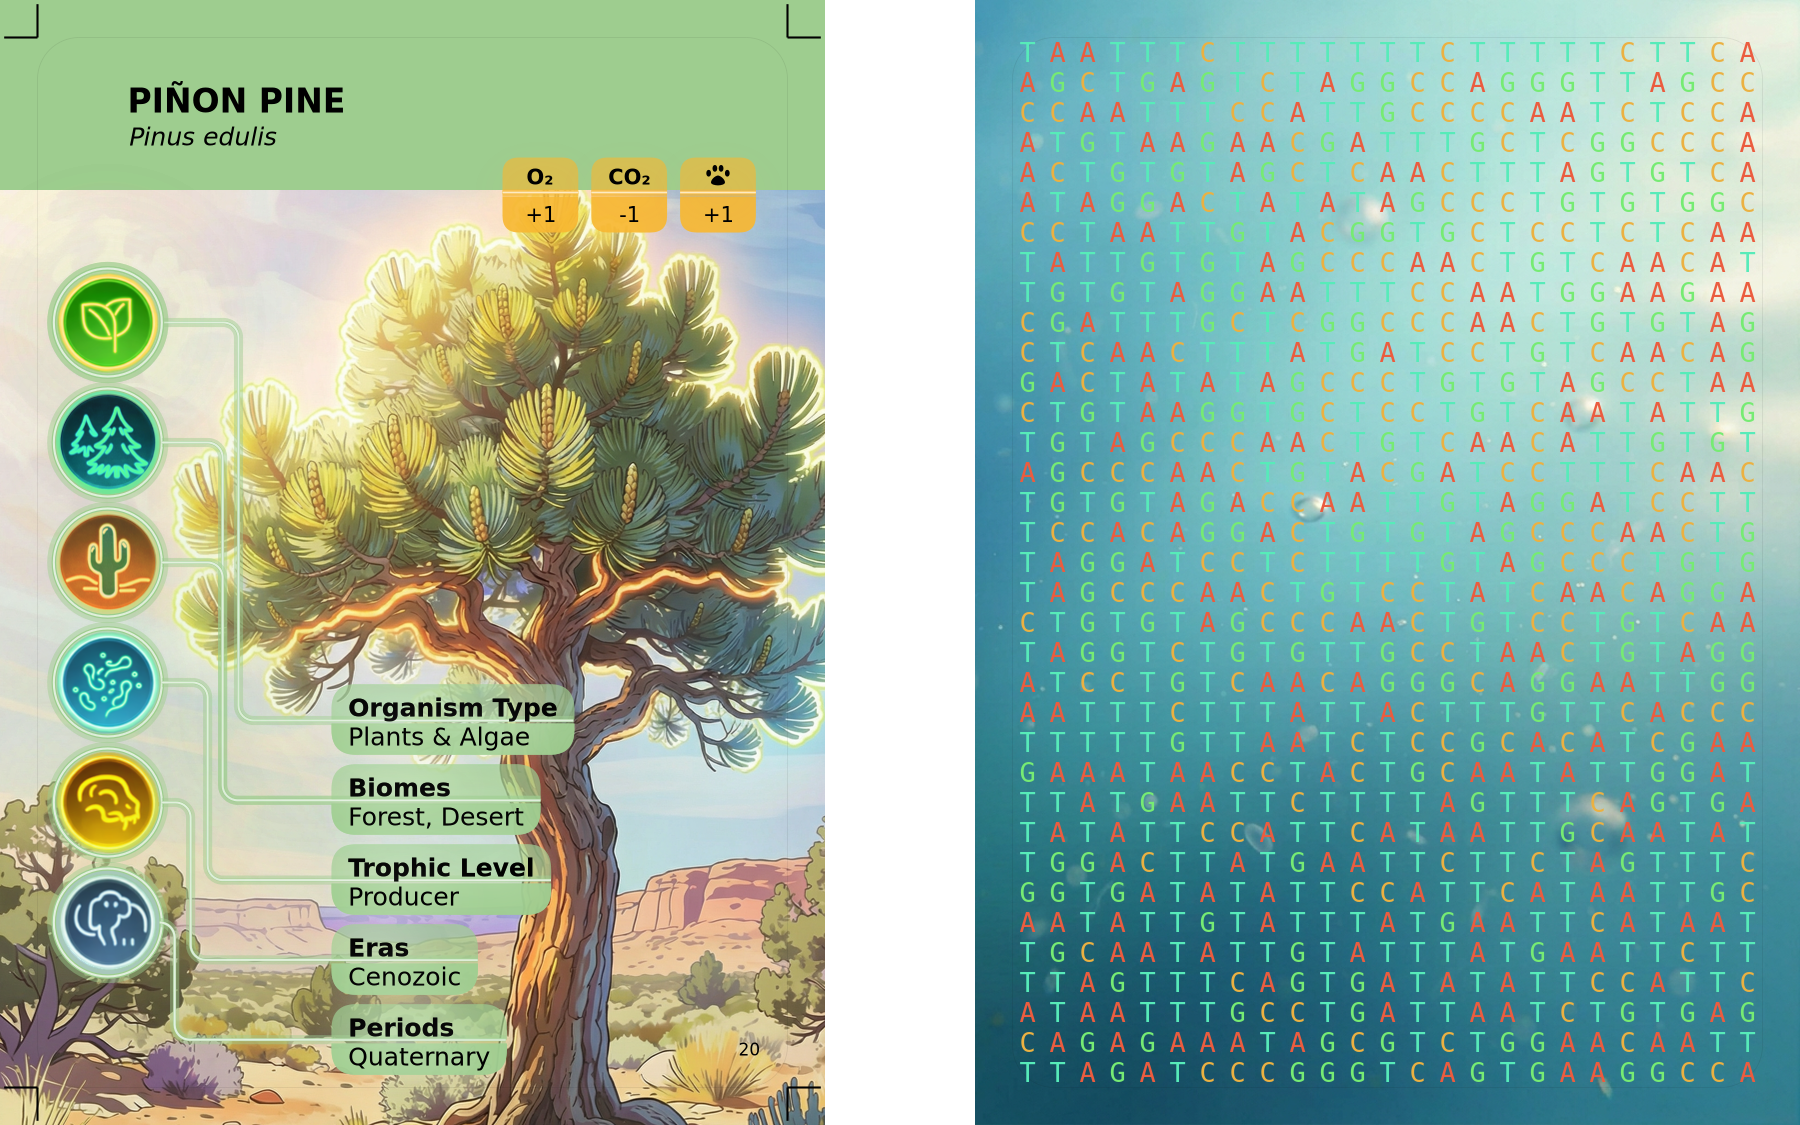
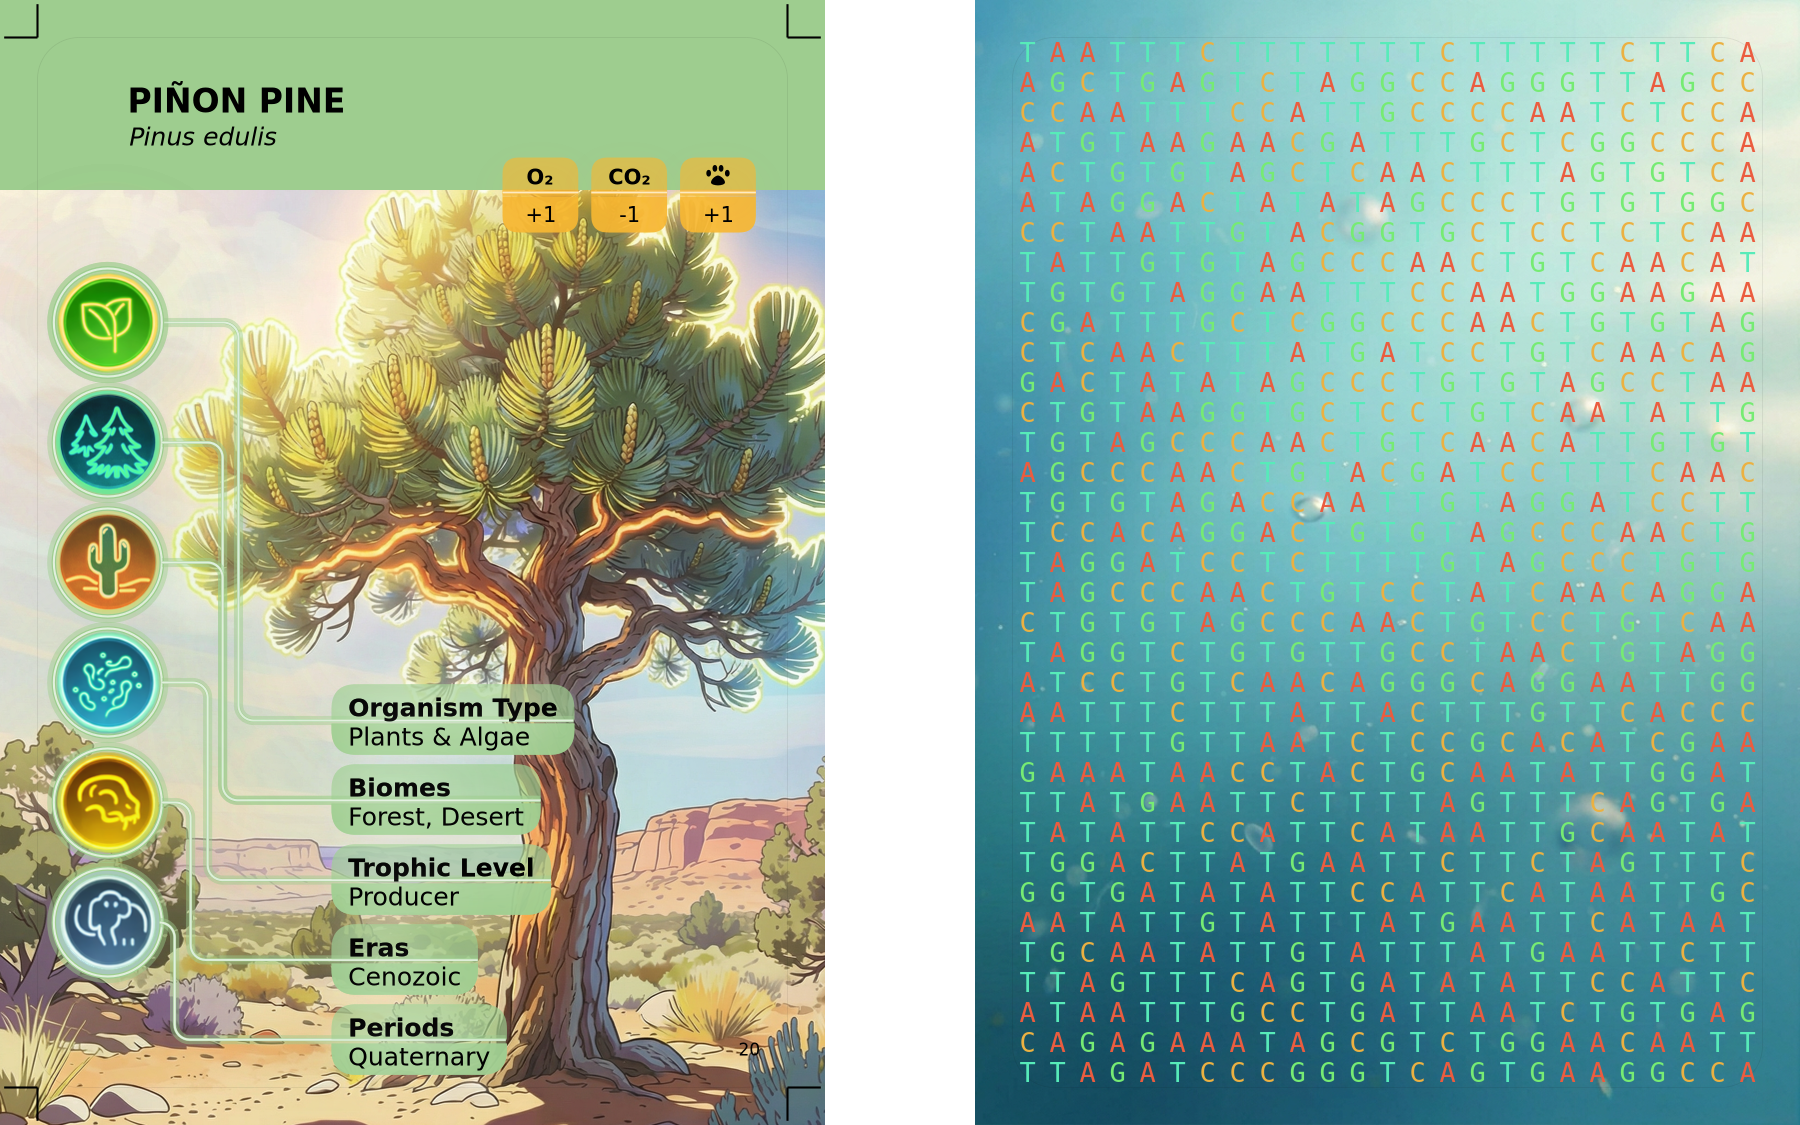
Update manifest with new checksum and generation date; adjust layout for Card 20

Changed region(s): [[0.0, 0.1556, 0.4667, 1.0], [0.2178, 0.6533, 0.2489, 0.6844]]

diff --git a/game/lib/cards/layers/backgrounds/Pinus_edulis_background.js b/game/lib/cards/layers/backgrounds/Pinus_edulis_background.js
@@ -26,7 +26,7 @@ module.exports = async function pinusEdulisBackground(ctx, x, y, { width, height
       const imgW = width * scaleFactor;
       const imgH = (height - colorBlockHeight) * scaleFactor;
       const imgX = x + (width - imgW) / 2 + 40;
-      const imgY = y + colorBlockHeight + 40;
+      const imgY = y + colorBlockHeight - 20;
       ctx.save();
       ctx.globalAlpha = 1.0;
       ctx.drawImage(img, imgX, imgY, imgW, imgH);

diff --git a/game/lib/cards/layout-png.js b/game/lib/cards/layout-png.js
@@ -193,7 +193,7 @@ async function drawCardPNG(ctx, xPt, yPt, card, scale, options = {}) {
     }
     if (isCard20) {
       mainPhotoX -= 10;
-      mainPhotoY -= 40;
+      mainPhotoY -= 60;
     }
     if (isCard21) {
       mainPhotoX += 25;
